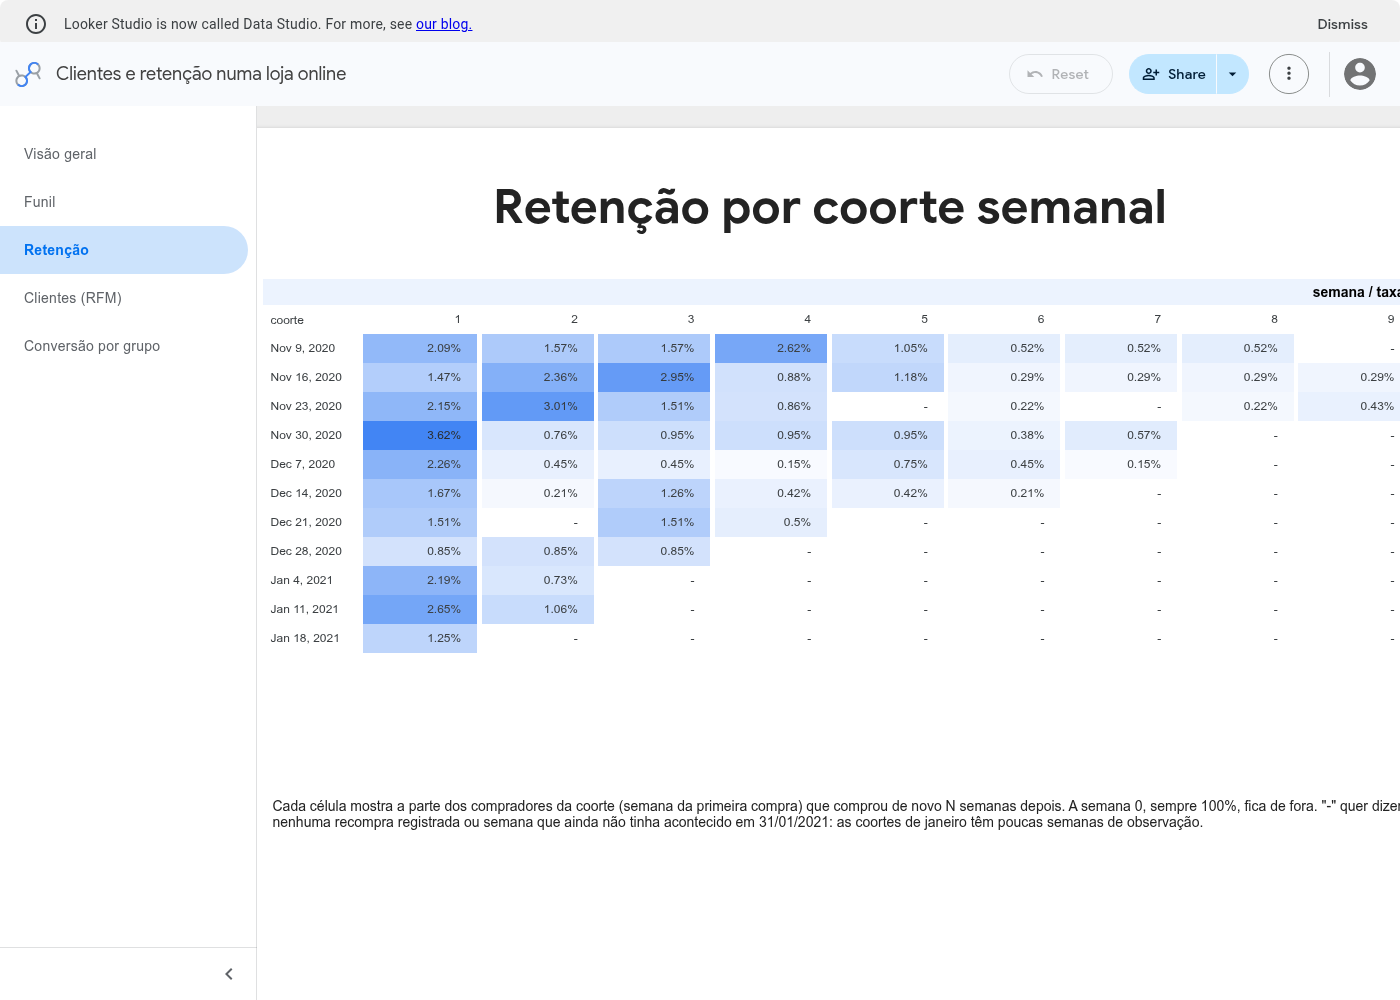
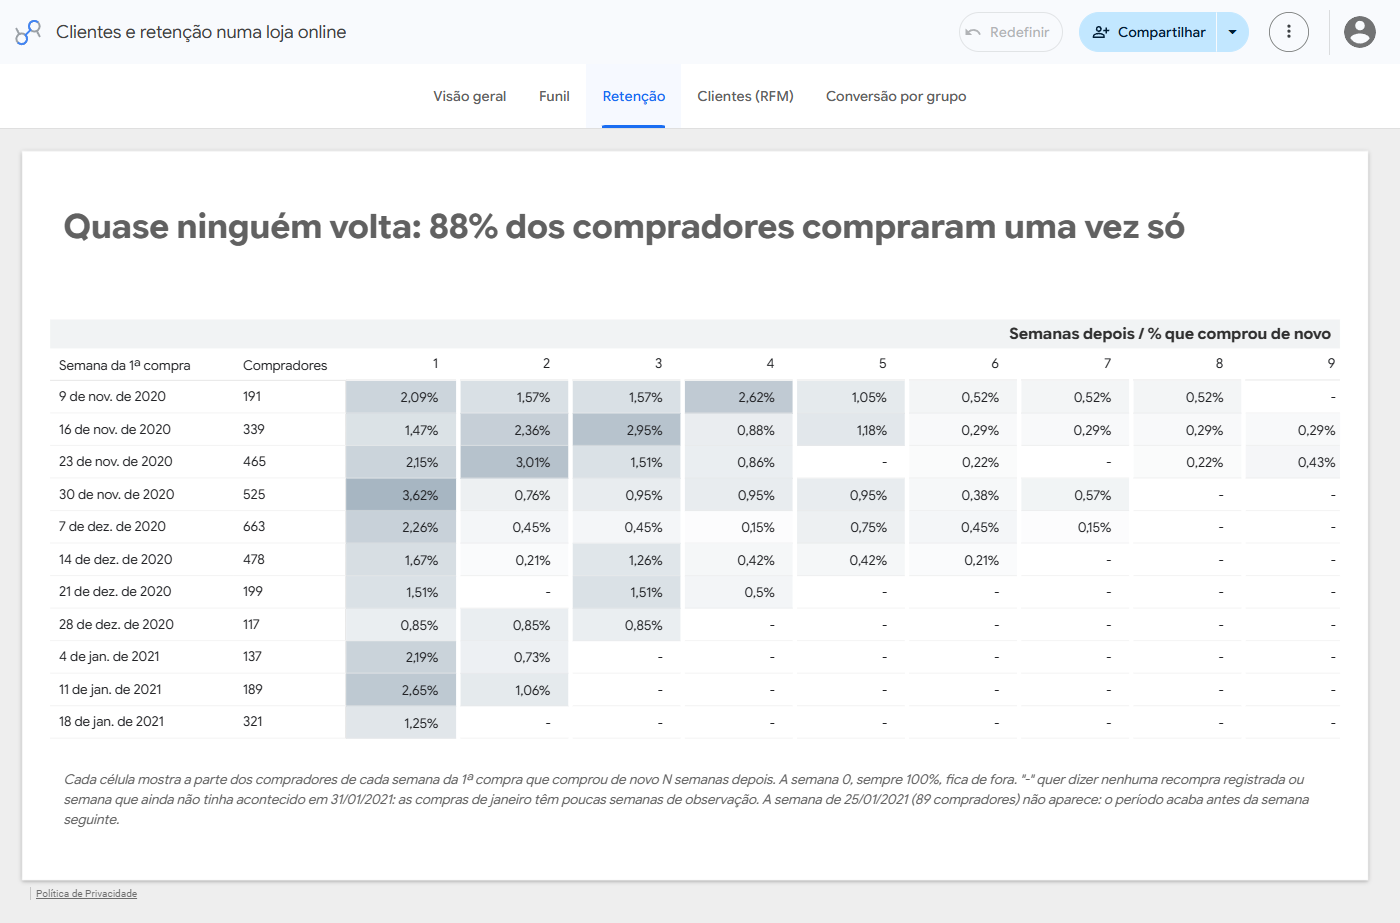
Painel revisado: prints novos, rótulos em português no SQL e seção "O que fazer"
- sql/05 e o CSV ganham grupo_pt (rótulos em português para o painel)
- README: divisão BigQuery/Data Studio, coorte de 25/01 fora do mapa de calor, recomendação com cenário
- docs/img: prints do painel atual

diff --git a/README.md b/README.md
@@ -31,7 +31,7 @@ São quatro perguntas menores, uma por análise:
 - **Coortes:** cada comprador entra na coorte da semana da primeira compra. A retenção é a parte da coorte que comprou de novo 1, 2, 3… semanas depois.
 - **RFM:** só compradores. Recência e valor em quintis; frequência em três faixas (1, 2, 3 ou mais compras), porque 88,1% dos compradores (3.273 de 3.713) compraram uma vez só e quintis de frequência não separariam ninguém ([`resultados/00_perfil.csv`](resultados/00_perfil.csv)). Os segmentos saem de uma tabela de regras no próprio SQL. O empate nos quintis é desfeito pelo id do usuário, para o resultado ser o mesmo a cada execução.
 - **Teste:** z de duas proporções para celular contra computador, com intervalo de 95% e h de Cohen; qui-quadrado para os quatro canais legíveis juntos. É uma comparação observacional: ninguém sorteou os grupos, então uma diferença aqui não prova causa. O cálculo tem um teste automatizado contra um caso feito à mão ([`tests/test_teste_proporcoes.py`](tests/test_teste_proporcoes.py)).
-- **Painel:** cada fonte do Data Studio é uma consulta personalizada sobre a tabela pública, com o mesmo SQL deste repositório. Nada fica salvo no projeto do BigQuery, porque no sandbox gratuito tabelas e views expiram em 60 dias.
+- **Painel:** cada fonte do Data Studio é uma consulta personalizada sobre a tabela pública, com o mesmo SQL deste repositório. Nada fica salvo no projeto do BigQuery, porque no sandbox gratuito tabelas e views expiram em 60 dias. A preparação dos dados (limpeza, rótulos em português, taxas) fica no SQL; o Data Studio cuida da visualização e de métricas do próprio painel, como a taxa de conversão, que é um campo calculado (`SUM(sessoes_com_compra) / SUM(sessoes)`).
 
 ## Resultados
 
@@ -51,7 +51,7 @@ Quase quatro em cada cinco sessões não chegam a ver um produto. Depois do carr
 
 ### P2. Quase ninguém volta a comprar
 
-Só 440 dos 3.713 compradores compraram mais de uma vez em três meses ([`resultados/00_perfil.csv`](resultados/00_perfil.csv)). Nas coortes semanais, a recompra fica entre 0% e 3,6% por semana; o ponto mais alto é a coorte de 30/11/2020 na semana seguinte à primeira compra, com 3,62% ([`resultados/03_coortes.csv`](resultados/03_coortes.csv)). As coortes de janeiro têm poucas semanas de observação. No painel, "-" quer dizer nenhuma recompra registrada ou semana que ainda não tinha acontecido em 31/01/2021.
+Só 440 dos 3.713 compradores compraram mais de uma vez em três meses ([`resultados/00_perfil.csv`](resultados/00_perfil.csv)). Nas coortes semanais, a recompra fica entre 0% e 3,6% por semana; o ponto mais alto é a coorte de 30/11/2020 na semana seguinte à primeira compra, com 3,62% ([`resultados/03_coortes.csv`](resultados/03_coortes.csv)). As coortes de janeiro têm poucas semanas de observação. No painel, "-" quer dizer nenhuma recompra registrada ou semana que ainda não tinha acontecido em 31/01/2021. A coorte de 25/01/2021 (89 compradores) fica fora do mapa de calor, porque o período acaba antes da semana seguinte.
 
 ![Retenção](docs/img/3-retencao.png)
 
@@ -78,6 +78,11 @@ O grupo "Em risco" junta quem gastou muito, comprou uma vez e não volta há 66,
 Fontes: [`resultados/05_conversao_por_grupo.csv`](resultados/05_conversao_por_grupo.csv) e [`resultados/06_testes.csv`](resultados/06_testes.csv).
 
 ![Conversão por grupo](docs/img/5-conversao.png)
+
+## O que fazer
+
+1. **Reativar primeiro os clientes "Em risco".** São 466 clientes que fizeram uma compra só, de US$ 141,08 em média, e não compram há 66,6 dias. Cenário: se 10% deles voltarem a comprar uma vez, com esse gasto médio, são cerca de US$ 6,6 mil (466 × 10% × US$ 141,08 = US$ 6.574), perto de 2% da receita do período (US$ 308.830). Os 10% são uma premissa para dimensionar a ação, não uma previsão.
+2. **Depois, atacar a entrada do funil.** 78,6% das sessões (283.109 de 360.129) não chegam a ver um produto. A segunda maior perda, entre ver o produto e pôr no carrinho, é de 61.832 sessões: a entrada perde mais de quatro vezes isso.
 
 ## O que os dados não permitem concluir
 
